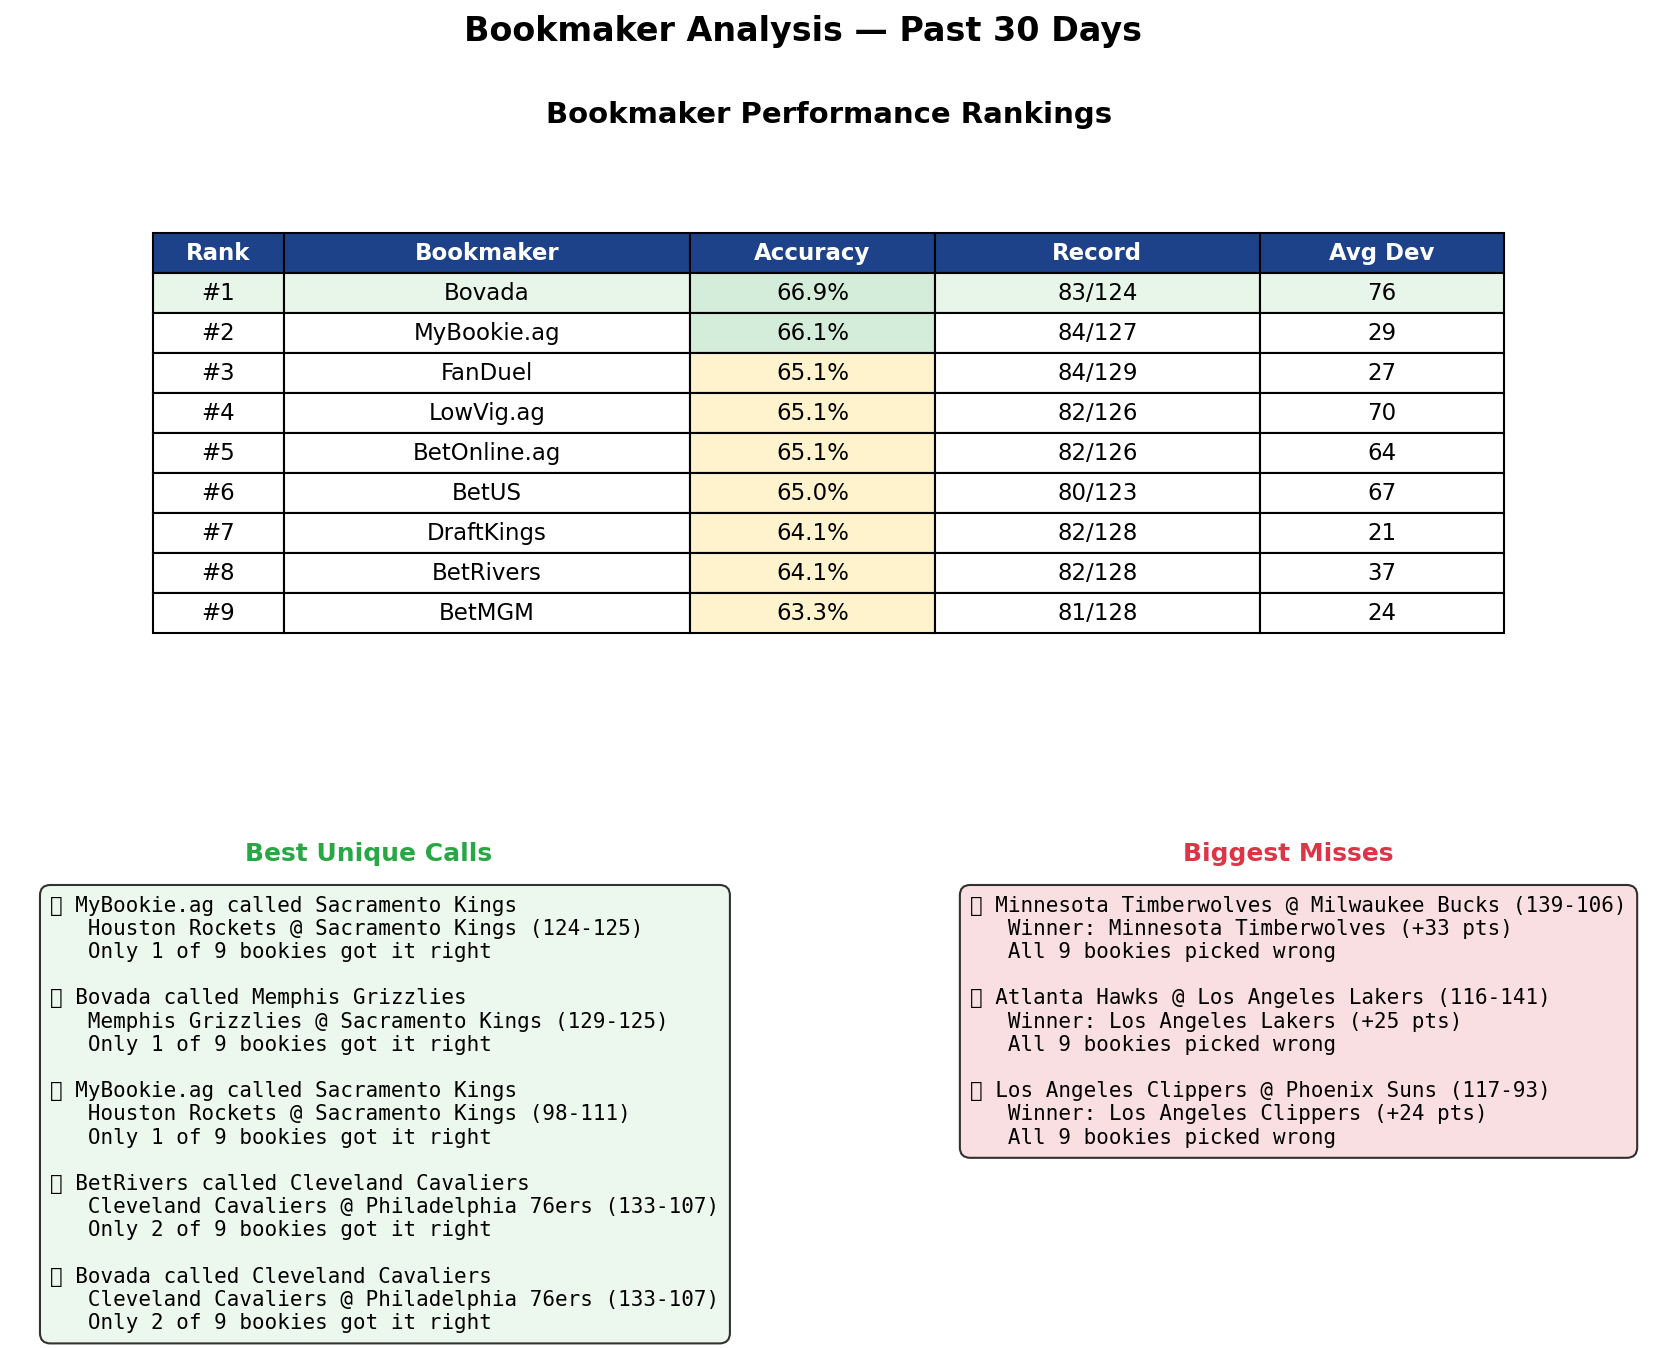
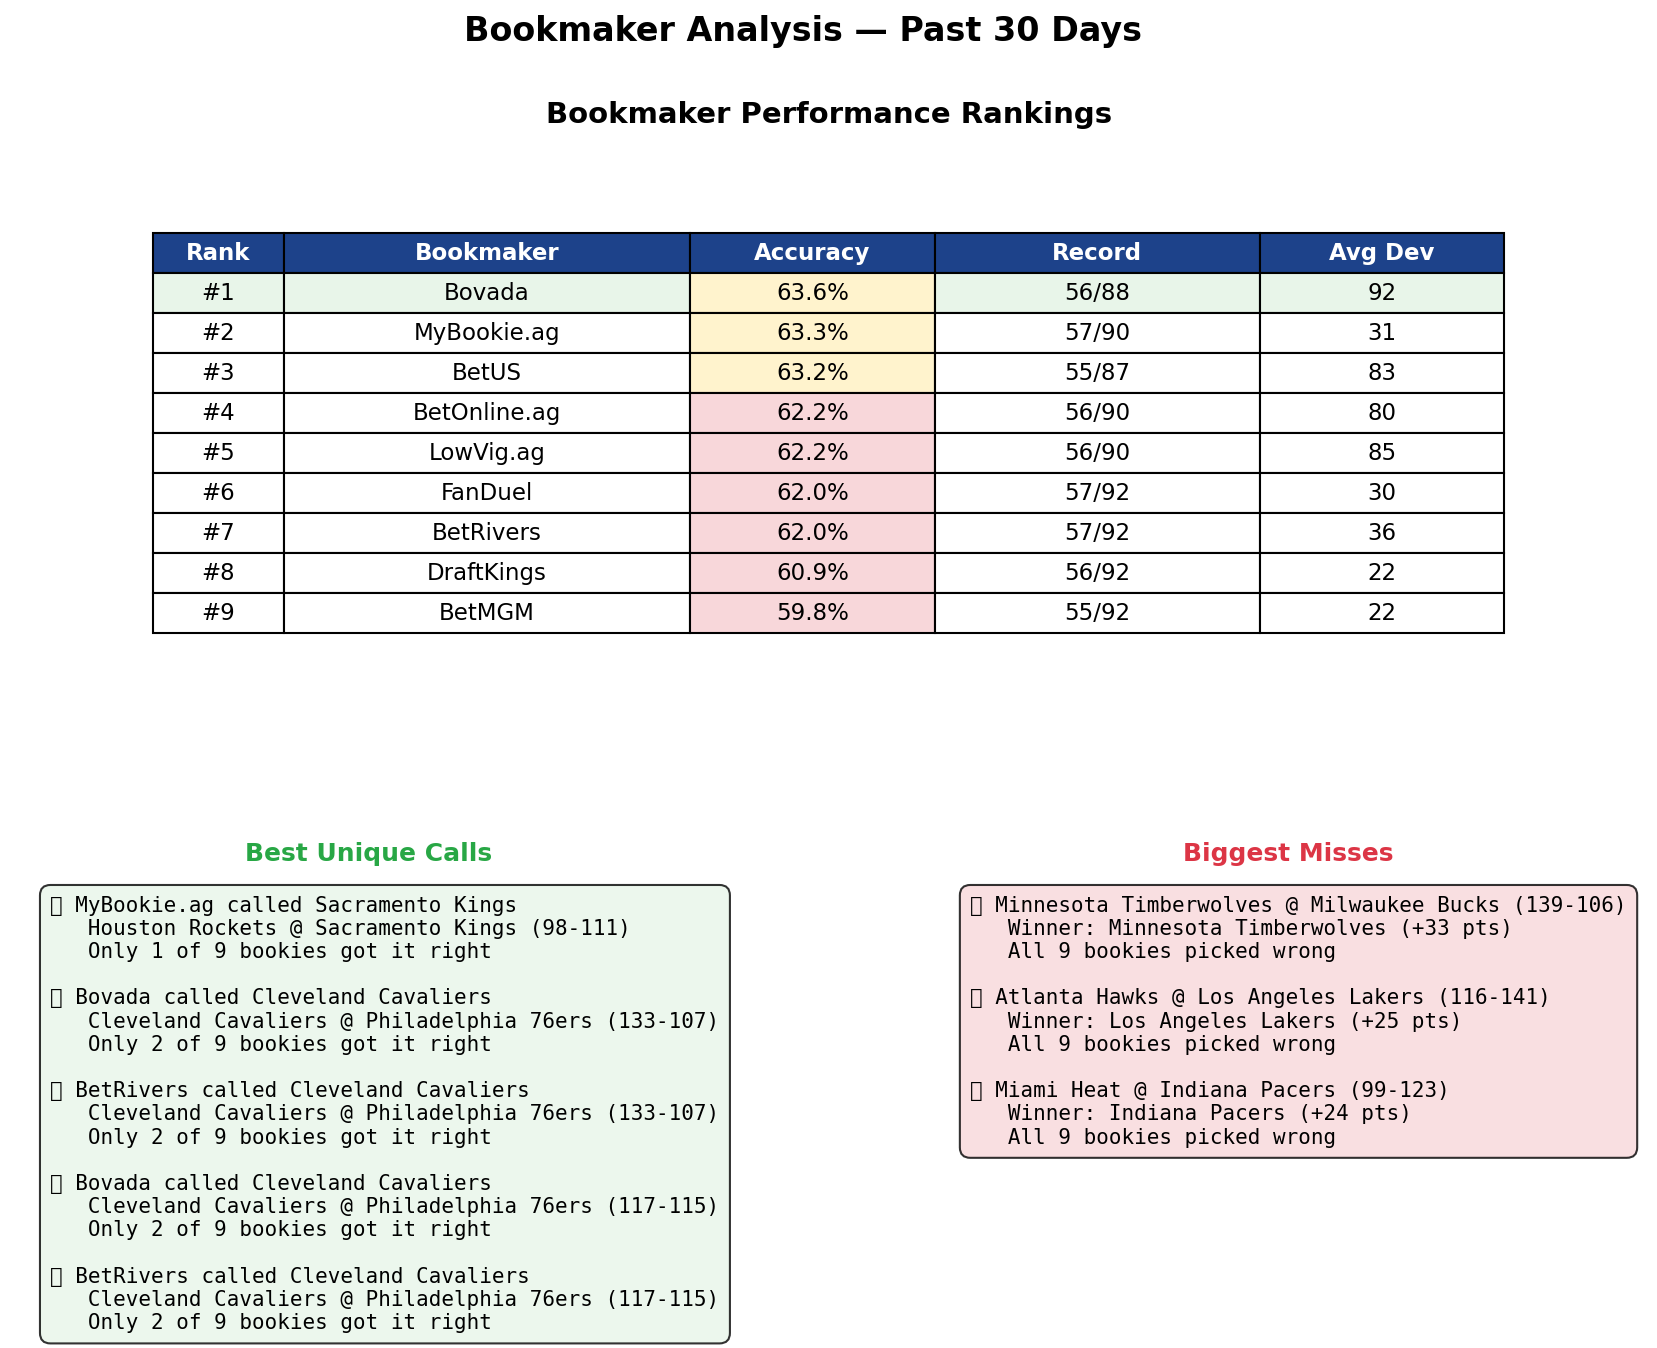
Daily odds report: 2026-02-07

diff --git a/reports/daily_report_2026-02-07.html b/reports/daily_report_2026-02-07.html
@@ -42,7 +42,7 @@
 <body>
     <div class="container">
         <h1>🏀 NBA Daily Report</h1>
-        <p class="timestamp">Generated: 2026-02-07 02:41 | Data as of: 2026-02-07</p>
+        <p class="timestamp">Generated: 2026-02-07 23:33 | Data as of: 2026-02-07</p>
         
         <h2>🐝 Charlotte Hornets</h2>
         <div class="card"><p>No upcoming Hornets game found.</p></div>
@@ -51,38 +51,38 @@
             <h3>Past Month Performance</h3>
             <div class="stat-grid">
                 <div class="stat-box">
-                    <div class="stat-value">4-2</div>
+                    <div class="stat-value">2-3</div>
                     <div class="stat-label">Record</div>
                 </div>
                 <div class="stat-box">
-                    <div class="stat-value">66.7%</div>
+                    <div class="stat-value">40.0%</div>
                     <div class="stat-label">Win Rate</div>
                 </div>
                 <div class="stat-box">
-                    <div class="stat-value">2</div>
+                    <div class="stat-value">1</div>
                     <div class="stat-label">Upset Wins</div>
                 </div>
                 <div class="stat-box">
-                    <div class="stat-value">1</div>
+                    <div class="stat-value">2</div>
                     <div class="stat-label">Upset Losses</div>
                 </div>
             </div>
             <h3>vs Bookie Predictions</h3>
             <div class="stat-grid">
                 <div class="stat-box">
-                    <div class="stat-value">66.7%</div>
+                    <div class="stat-value">33.3%</div>
                     <div class="stat-label">Win % as Favorite</div>
                 </div>
                 <div class="stat-box">
-                    <div class="stat-value">66.7%</div>
+                    <div class="stat-value">50.0%</div>
                     <div class="stat-label">Win % as Underdog</div>
                 </div>
                 <div class="stat-box">
-                    <div class="stat-value positive">+2.4%</div>
+                    <div class="stat-value negative">-27.6%</div>
                     <div class="stat-label">vs NBA Avg</div>
                 </div>
                 <div class="stat-box">
-                    <div class="stat-value">64.3%</div>
+                    <div class="stat-value">60.9%</div>
                     <div class="stat-label">NBA Fav Win Rate</div>
                 </div>
             </div>
@@ -96,122 +96,66 @@
                 <tr class="highlight">
                 <td>1</td>
                 <td>Bovada</td>
-                <td><strong>66.9%</strong></td>
-                <td>124</td>
-                <td>76.1</td>
+                <td><strong>63.6%</strong></td>
+                <td>88</td>
+                <td>91.7</td>
             </tr><tr >
                 <td>2</td>
                 <td>MyBookie.ag</td>
-                <td><strong>66.1%</strong></td>
-                <td>127</td>
-                <td>29.2</td>
+                <td><strong>63.3%</strong></td>
+                <td>90</td>
+                <td>30.7</td>
             </tr><tr >
                 <td>3</td>
-                <td>FanDuel</td>
-                <td><strong>65.1%</strong></td>
-                <td>129</td>
-                <td>27.3</td>
+                <td>BetUS</td>
+                <td><strong>63.2%</strong></td>
+                <td>87</td>
+                <td>82.8</td>
             </tr><tr >
                 <td>4</td>
-                <td>LowVig.ag</td>
-                <td><strong>65.1%</strong></td>
-                <td>126</td>
-                <td>69.7</td>
+                <td>BetOnline.ag</td>
+                <td><strong>62.2%</strong></td>
+                <td>90</td>
+                <td>79.5</td>
             </tr><tr >
                 <td>5</td>
-                <td>BetOnline.ag</td>
-                <td><strong>65.1%</strong></td>
-                <td>126</td>
-                <td>63.8</td>
+                <td>LowVig.ag</td>
+                <td><strong>62.2%</strong></td>
+                <td>90</td>
+                <td>84.8</td>
             </tr><tr >
                 <td>6</td>
-                <td>BetUS</td>
-                <td><strong>65.0%</strong></td>
-                <td>123</td>
-                <td>66.6</td>
+                <td>FanDuel</td>
+                <td><strong>62.0%</strong></td>
+                <td>92</td>
+                <td>30.0</td>
             </tr><tr >
                 <td>7</td>
-                <td>DraftKings</td>
-                <td><strong>64.1%</strong></td>
-                <td>128</td>
-                <td>21.0</td>
+                <td>BetRivers</td>
+                <td><strong>62.0%</strong></td>
+                <td>92</td>
+                <td>35.8</td>
             </tr><tr >
                 <td>8</td>
-                <td>BetRivers</td>
-                <td><strong>64.1%</strong></td>
-                <td>128</td>
-                <td>36.6</td>
+                <td>DraftKings</td>
+                <td><strong>60.9%</strong></td>
+                <td>92</td>
+                <td>22.3</td>
             </tr><tr >
                 <td>9</td>
                 <td>BetMGM</td>
-                <td><strong>63.3%</strong></td>
-                <td>128</td>
-                <td>23.8</td>
+                <td><strong>59.8%</strong></td>
+                <td>92</td>
+                <td>21.7</td>
             </tr>
             </table>
             <p style="font-size:11px;color:#666;margin-top:10px;">* Accuracy = correct winner predictions</p>
         </div>
-        <div class="card"><h3>Best Unique Calls</h3><div class="notable-item good"><strong>MyBookie.ag</strong> correctly called Sacramento Kings<br><span style="font-size:11px;">Houston Rockets @ Sacramento Kings (124-125) — Only 1 of 9 bookies got it right</span></div><div class="notable-item good"><strong>Bovada</strong> correctly called Memphis Grizzlies<br><span style="font-size:11px;">Memphis Grizzlies @ Sacramento Kings (129-125) — Only 1 of 9 bookies got it right</span></div><div class="notable-item good"><strong>MyBookie.ag</strong> correctly called Sacramento Kings<br><span style="font-size:11px;">Houston Rockets @ Sacramento Kings (98-111) — Only 1 of 9 bookies got it right</span></div><div class="notable-item good"><strong>BetRivers</strong> correctly called Cleveland Cavaliers<br><span style="font-size:11px;">Cleveland Cavaliers @ Philadelphia 76ers (133-107) — Only 2 of 9 bookies got it right</span></div><div class="notable-item good"><strong>Bovada</strong> correctly called Cleveland Cavaliers<br><span style="font-size:11px;">Cleveland Cavaliers @ Philadelphia 76ers (133-107) — Only 2 of 9 bookies got it right</span></div><h3>Biggest Misses</h3><div class="notable-item bad"><strong>Minnesota Timberwolves @ Milwaukee Bucks</strong> (139-106)<br><span style="font-size:11px;">Minnesota Timberwolves won by 33 pts — All 9 bookies picked wrong</span></div><div class="notable-item bad"><strong>Atlanta Hawks @ Los Angeles Lakers</strong> (116-141)<br><span style="font-size:11px;">Los Angeles Lakers won by 25 pts — All 9 bookies picked wrong</span></div><div class="notable-item bad"><strong>Los Angeles Clippers @ Phoenix Suns</strong> (117-93)<br><span style="font-size:11px;">Los Angeles Clippers won by 24 pts — All 9 bookies picked wrong</span></div></div>
+        <div class="card"><h3>Best Unique Calls</h3><div class="notable-item good"><strong>MyBookie.ag</strong> correctly called Sacramento Kings<br><span style="font-size:11px;">Houston Rockets @ Sacramento Kings (98-111) — Only 1 of 9 bookies got it right</span></div><div class="notable-item good"><strong>Bovada</strong> correctly called Cleveland Cavaliers<br><span style="font-size:11px;">Cleveland Cavaliers @ Philadelphia 76ers (133-107) — Only 2 of 9 bookies got it right</span></div><div class="notable-item good"><strong>BetRivers</strong> correctly called Cleveland Cavaliers<br><span style="font-size:11px;">Cleveland Cavaliers @ Philadelphia 76ers (133-107) — Only 2 of 9 bookies got it right</span></div><div class="notable-item good"><strong>Bovada</strong> correctly called Cleveland Cavaliers<br><span style="font-size:11px;">Cleveland Cavaliers @ Philadelphia 76ers (117-115) — Only 2 of 9 bookies got it right</span></div><div class="notable-item good"><strong>BetRivers</strong> correctly called Cleveland Cavaliers<br><span style="font-size:11px;">Cleveland Cavaliers @ Philadelphia 76ers (117-115) — Only 2 of 9 bookies got it right</span></div><h3>Biggest Misses</h3><div class="notable-item bad"><strong>Minnesota Timberwolves @ Milwaukee Bucks</strong> (139-106)<br><span style="font-size:11px;">Minnesota Timberwolves won by 33 pts — All 9 bookies picked wrong</span></div><div class="notable-item bad"><strong>Atlanta Hawks @ Los Angeles Lakers</strong> (116-141)<br><span style="font-size:11px;">Los Angeles Lakers won by 25 pts — All 9 bookies picked wrong</span></div><div class="notable-item bad"><strong>Miami Heat @ Indiana Pacers</strong> (99-123)<br><span style="font-size:11px;">Indiana Pacers won by 24 pts — All 9 bookies picked wrong</span></div></div>
         
         <h2>🤖 ML Predictions (Next 48 Hours)</h2>
         
-        <div class="card">
-            <h3>Model Performance</h3>
-            <p style="font-size:12px;margin-bottom:10px;"><strong>Winner Prediction:</strong></p>
-            <table>
-                <tr><th>Model</th><th>Test Acc</th><th>CV Mean</th><th>CV Std</th></tr>
-                <tr class="highlight">
-                <td>Logistic Regression</td>
-                <td>57.8%</td>
-                <td>62.9%</td>
-                <td>±3.6%</td>
-            </tr><tr >
-                <td>Random Forest</td>
-                <td>57.1%</td>
-                <td>63.2%</td>
-                <td>±2.1%</td>
-            </tr><tr >
-                <td>Gradient Boosting</td>
-                <td>57.8%</td>
-                <td>63.6%</td>
-                <td>±3.2%</td>
-            </tr>
-            </table>
-            <p style="font-size:12px;margin:15px 0 10px 0;"><strong>Score Prediction:</strong></p>
-            <table>
-                <tr><th>Model</th><th>MAE</th><th>RMSE</th></tr>
-                <tr class="highlight">
-                <td>Ridge</td>
-                <td>10.6 pts</td>
-                <td>12.6 pts</td>
-            </tr><tr >
-                <td>Random Forest</td>
-                <td>11.3 pts</td>
-                <td>13.9 pts</td>
-            </tr><tr >
-                <td>Gradient Boosting</td>
-                <td>11.3 pts</td>
-                <td>13.5 pts</td>
-            </tr>
-            </table>
-        </div>
-        <div class="card"><h3>Game Predictions</h3>
-            <div class="prediction-card">
-                <div class="matchup">Houston Rockets @ Oklahoma City Thunder</div>
-                <div class="details">
-                    <span class="winner">🏆 Oklahoma City Thunder</span> (80%)
-                    <br>Predicted: 107 - 114
-                     | Spread: +6.8
-                </div>
-            </div>
-            <div class="prediction-card">
-                <div class="matchup">Denver Nuggets @ Chicago Bulls</div>
-                <div class="details">
-                    <span class="winner">🏆 Denver Nuggets</span> (77%)
-                    <br>Predicted: 124 - 115
-                     | Spread: -9.4
-                </div>
-            </div></div>
+        <div class="card"><p>No upcoming games for predictions.</p></div>
         
         <h2>📈 Prediction History</h2>
         
